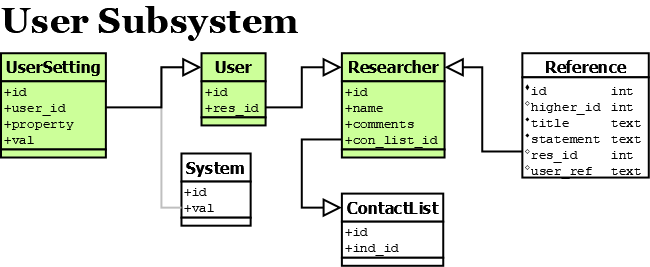
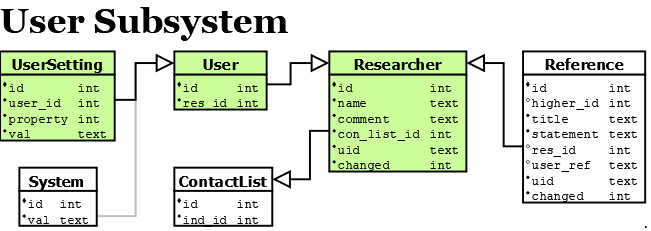
Website, update development manual description of database User subsystem.

diff --git a/website/dev/man/db/sub/user.htm b/website/dev/man/db/sub/user.htm
@@ -65,8 +65,8 @@
 
 <table class="basic core rfloat">
   <tr><th colspan="3">User table Core Data</th></tr>
-  <tr><th>[id] ID</th><th>[res_id] Researcher</th><th></th></tr>
-  <tr><td>1 (U1)</td><td>-1 (Re-1)</td><td>The initial User</td></tr>
+  <tr><th>[id]</th><th>[res_id]</th><th></th></tr>
+  <tr><td>1</td><td>-1</td><td>The initial User</td></tr>
 </table>
 <p>
   The User table is where settings that personalise the database and its display.
@@ -87,16 +87,16 @@
 
 <h3 class='clear'>User Settings</h3>
 
-<table class="basic lfloat" width="45%">
- <tr><th colspan="4">User Settings Properties</th></tr>
+<table class="basic lfloat">
+ <tr><th colspan="4">User Setting Properties</th></tr>
  <tr><th>Property</th><th>Description</th><th>Default Value</th><th>Notes</th></tr>
- <tr><td>1</td><td>Home Screen</td><td>'NI' (Name Index)</td>
+ <tr><td>1</td><td>Home Screen</td><td>"NI" (Name Index)</td>
   <td>The initial page displayed and the page<br>linked to the 'Home' button.</td></tr>
 </table>
-<table class="basic core rfloat">
+<table class="basic core lfloat">
  <tr><th colspan="4">UserSetting table Core Data</th></tr>
- <tr><th>[id] ID</th><th>[user_id] User</th><th>[property]</th><th>[val] Value</th></tr>
- <tr><td>1</td><td>1 (U1)</td><td>1</td><td>'NI'</td></tr>
+ <tr><th>[id]</th><th>[user_id]</th><th>[property]</th><th>[val]</th></tr>
+ <tr><td>1</td><td>1</td><td>1</td><td>"NI"</td></tr>
 </table>
 <p>
   The only user setting available so far, is the Home Page setting.
@@ -106,11 +106,11 @@
 
 <h3 class='clear'>Researcher</h3>
 
-<table class="basic core rfloat">
-  <tr><th colspan="5">Researcher table Core Data</th></tr>
-  <tr><th>[id] ID</th><th>[name]</th><th>[comments]</th><th>[con_list_id]</th><th></th></tr>
-  <tr><td>-1 (Re-1)</td><td>'Anonymous'</td><td>NULL</td><td>NULL</td><td>A general anonymous setting</td></tr>
-  <tr><td>0</td><td>''</td><td>NULL</td><td>NULL</td><td>Unstated</td></tr>
+<table class="basic core">
+  <tr><th colspan="7">Researcher table Core Data</th></tr>
+  <tr><th>[id]</th><th>[name]</th><th>[comment]</th><th>[con_list_id]</th><th>[uid]</th><th>[changed]</th><th></th></tr>
+  <tr><td>-1</td><td>Anonymous</td><td>NULL</td><td>NULL</td><td>E16C3575699D77C1BABD0C582A44C6FA3E4A</td><td>2459675</td><td>A general anonymous setting</td></tr>
+  <tr><td>0</td><td></td><td>NULL</td><td>NULL</td><td></td><td>0</td><td>Unstated</td></tr>
 </table>
 
 <p>
@@ -130,6 +130,13 @@
   This is achieved using the <b>Contact List</b> record's <b>ind_id</b> field.
 </p>
 
+<h2>Database Creation</h2>
+<p>
+  When the code library creates a new full database,
+  the initial values will be set as shown above.
+  However, when The Family Pack program creates a new full database a <b><a href="../../tutorial/index.htm">Setup Database</a></b>
+  dialog will be presented to allow for a custom <b>Researcher</b> and Home Page to be entered.
+</p>
 </div><!--id=content-->
 
  <div class="crumbs">
